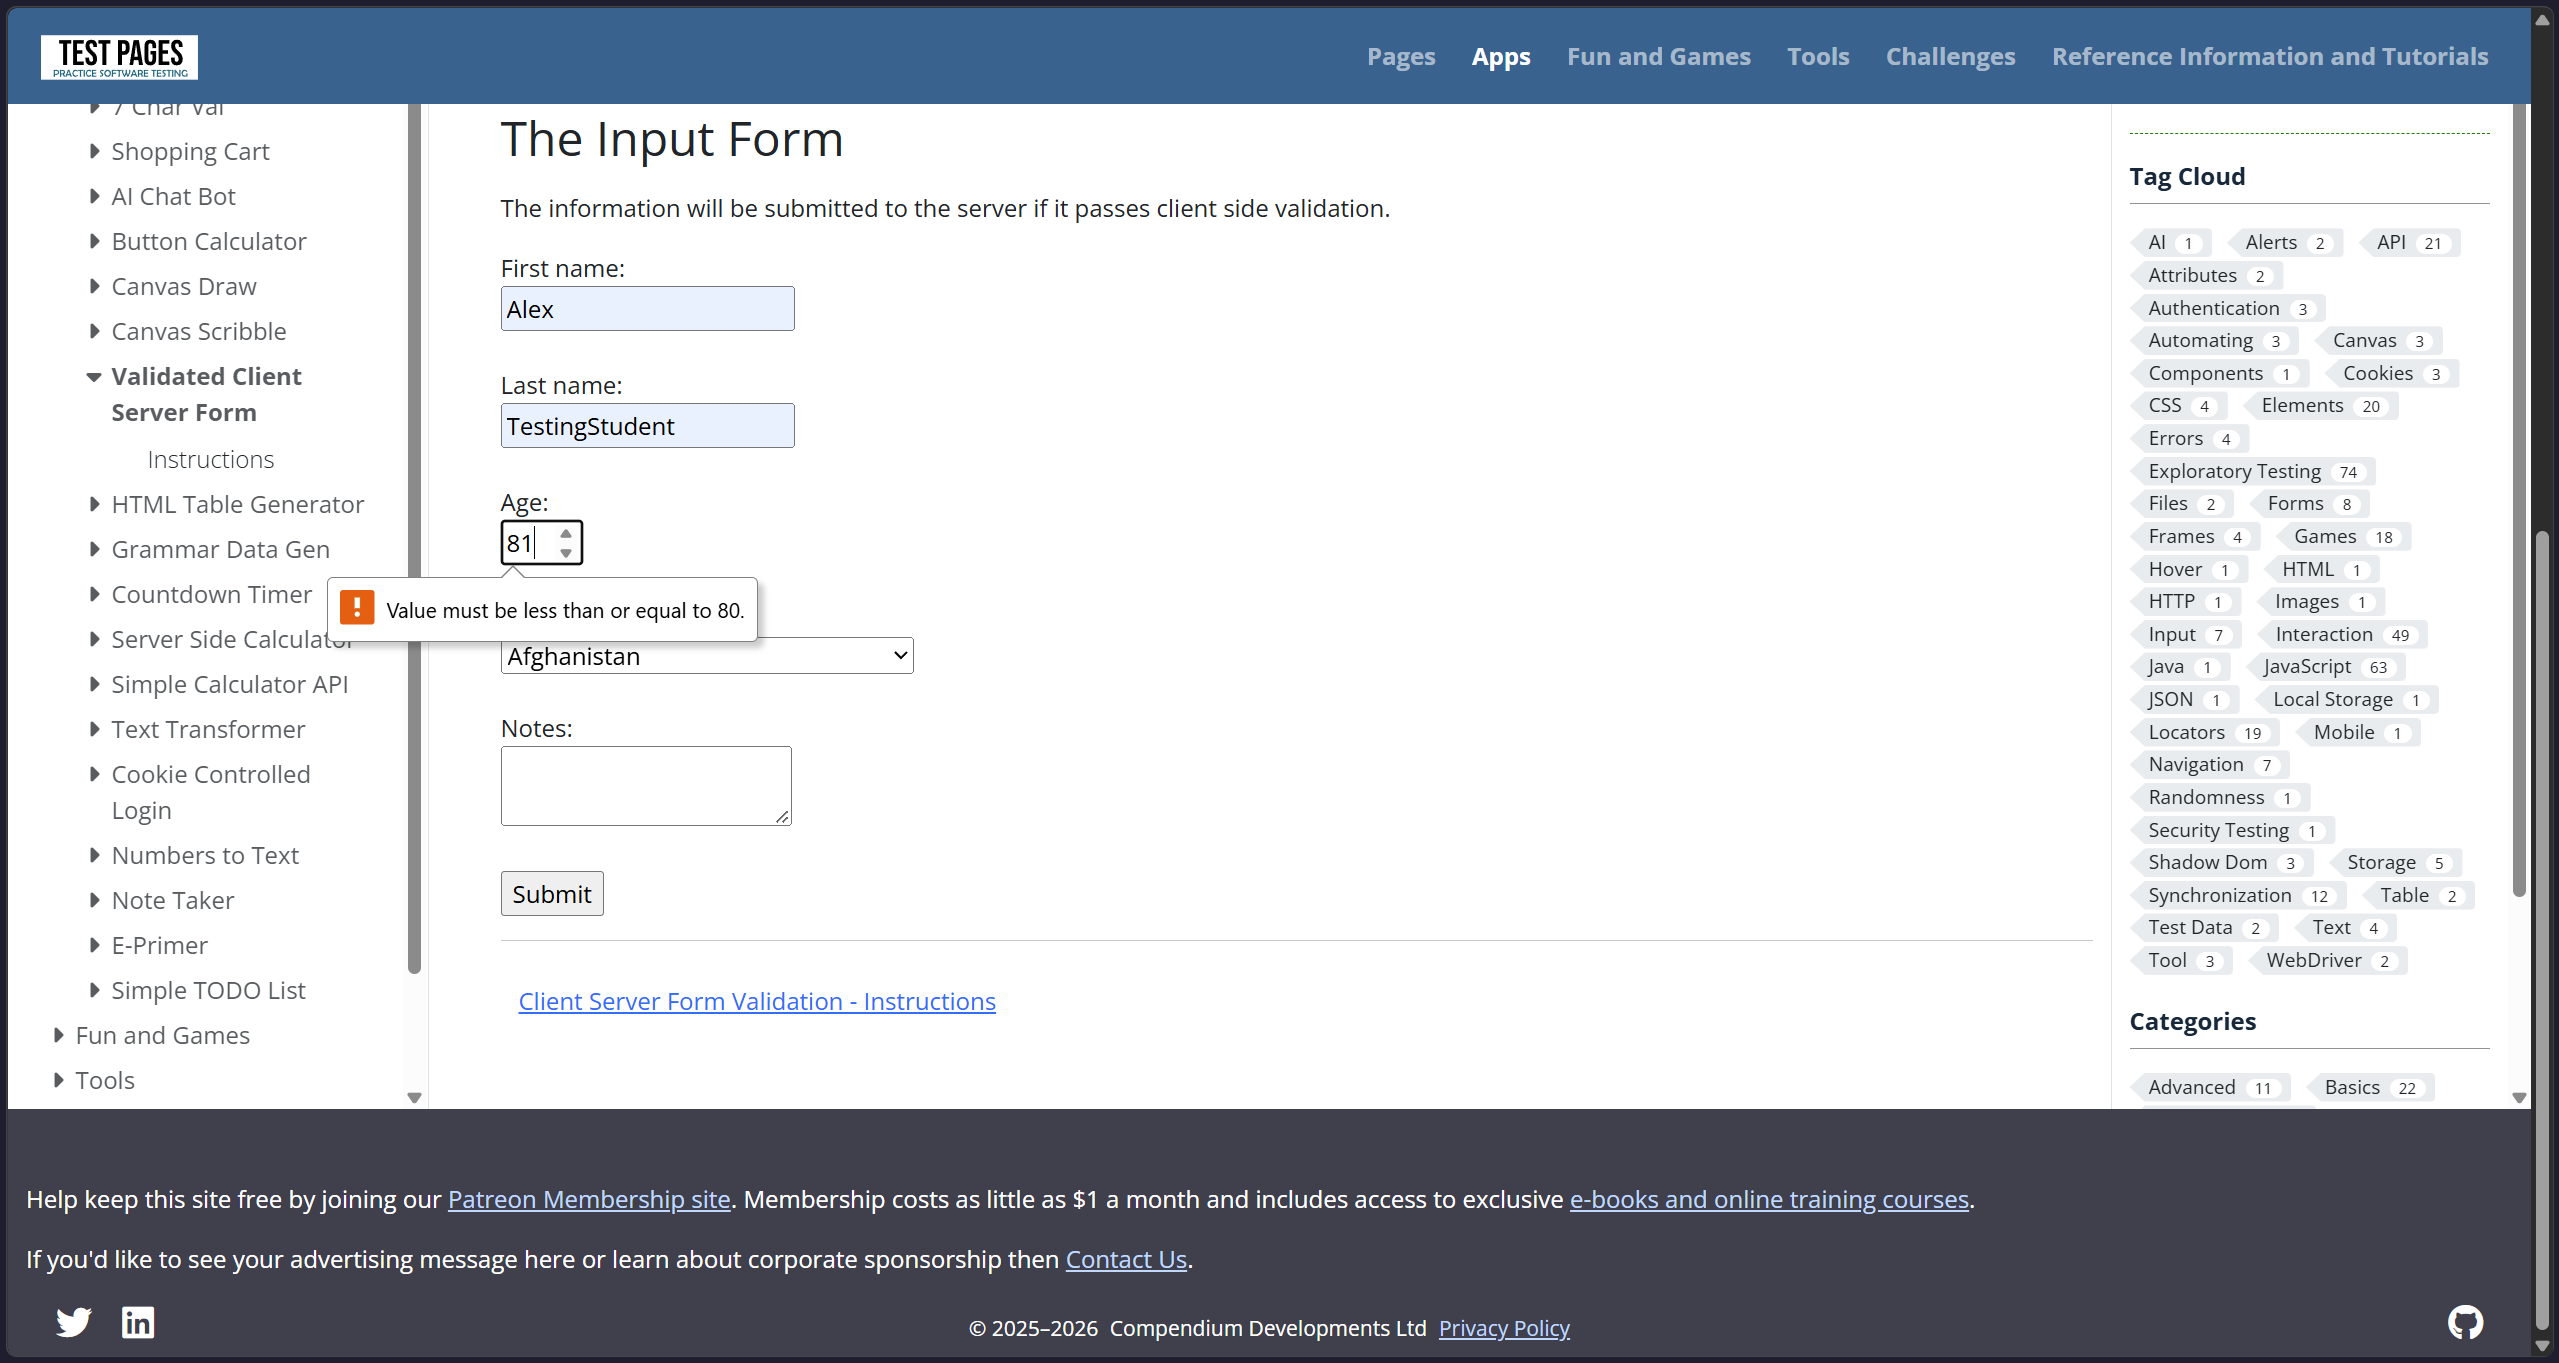
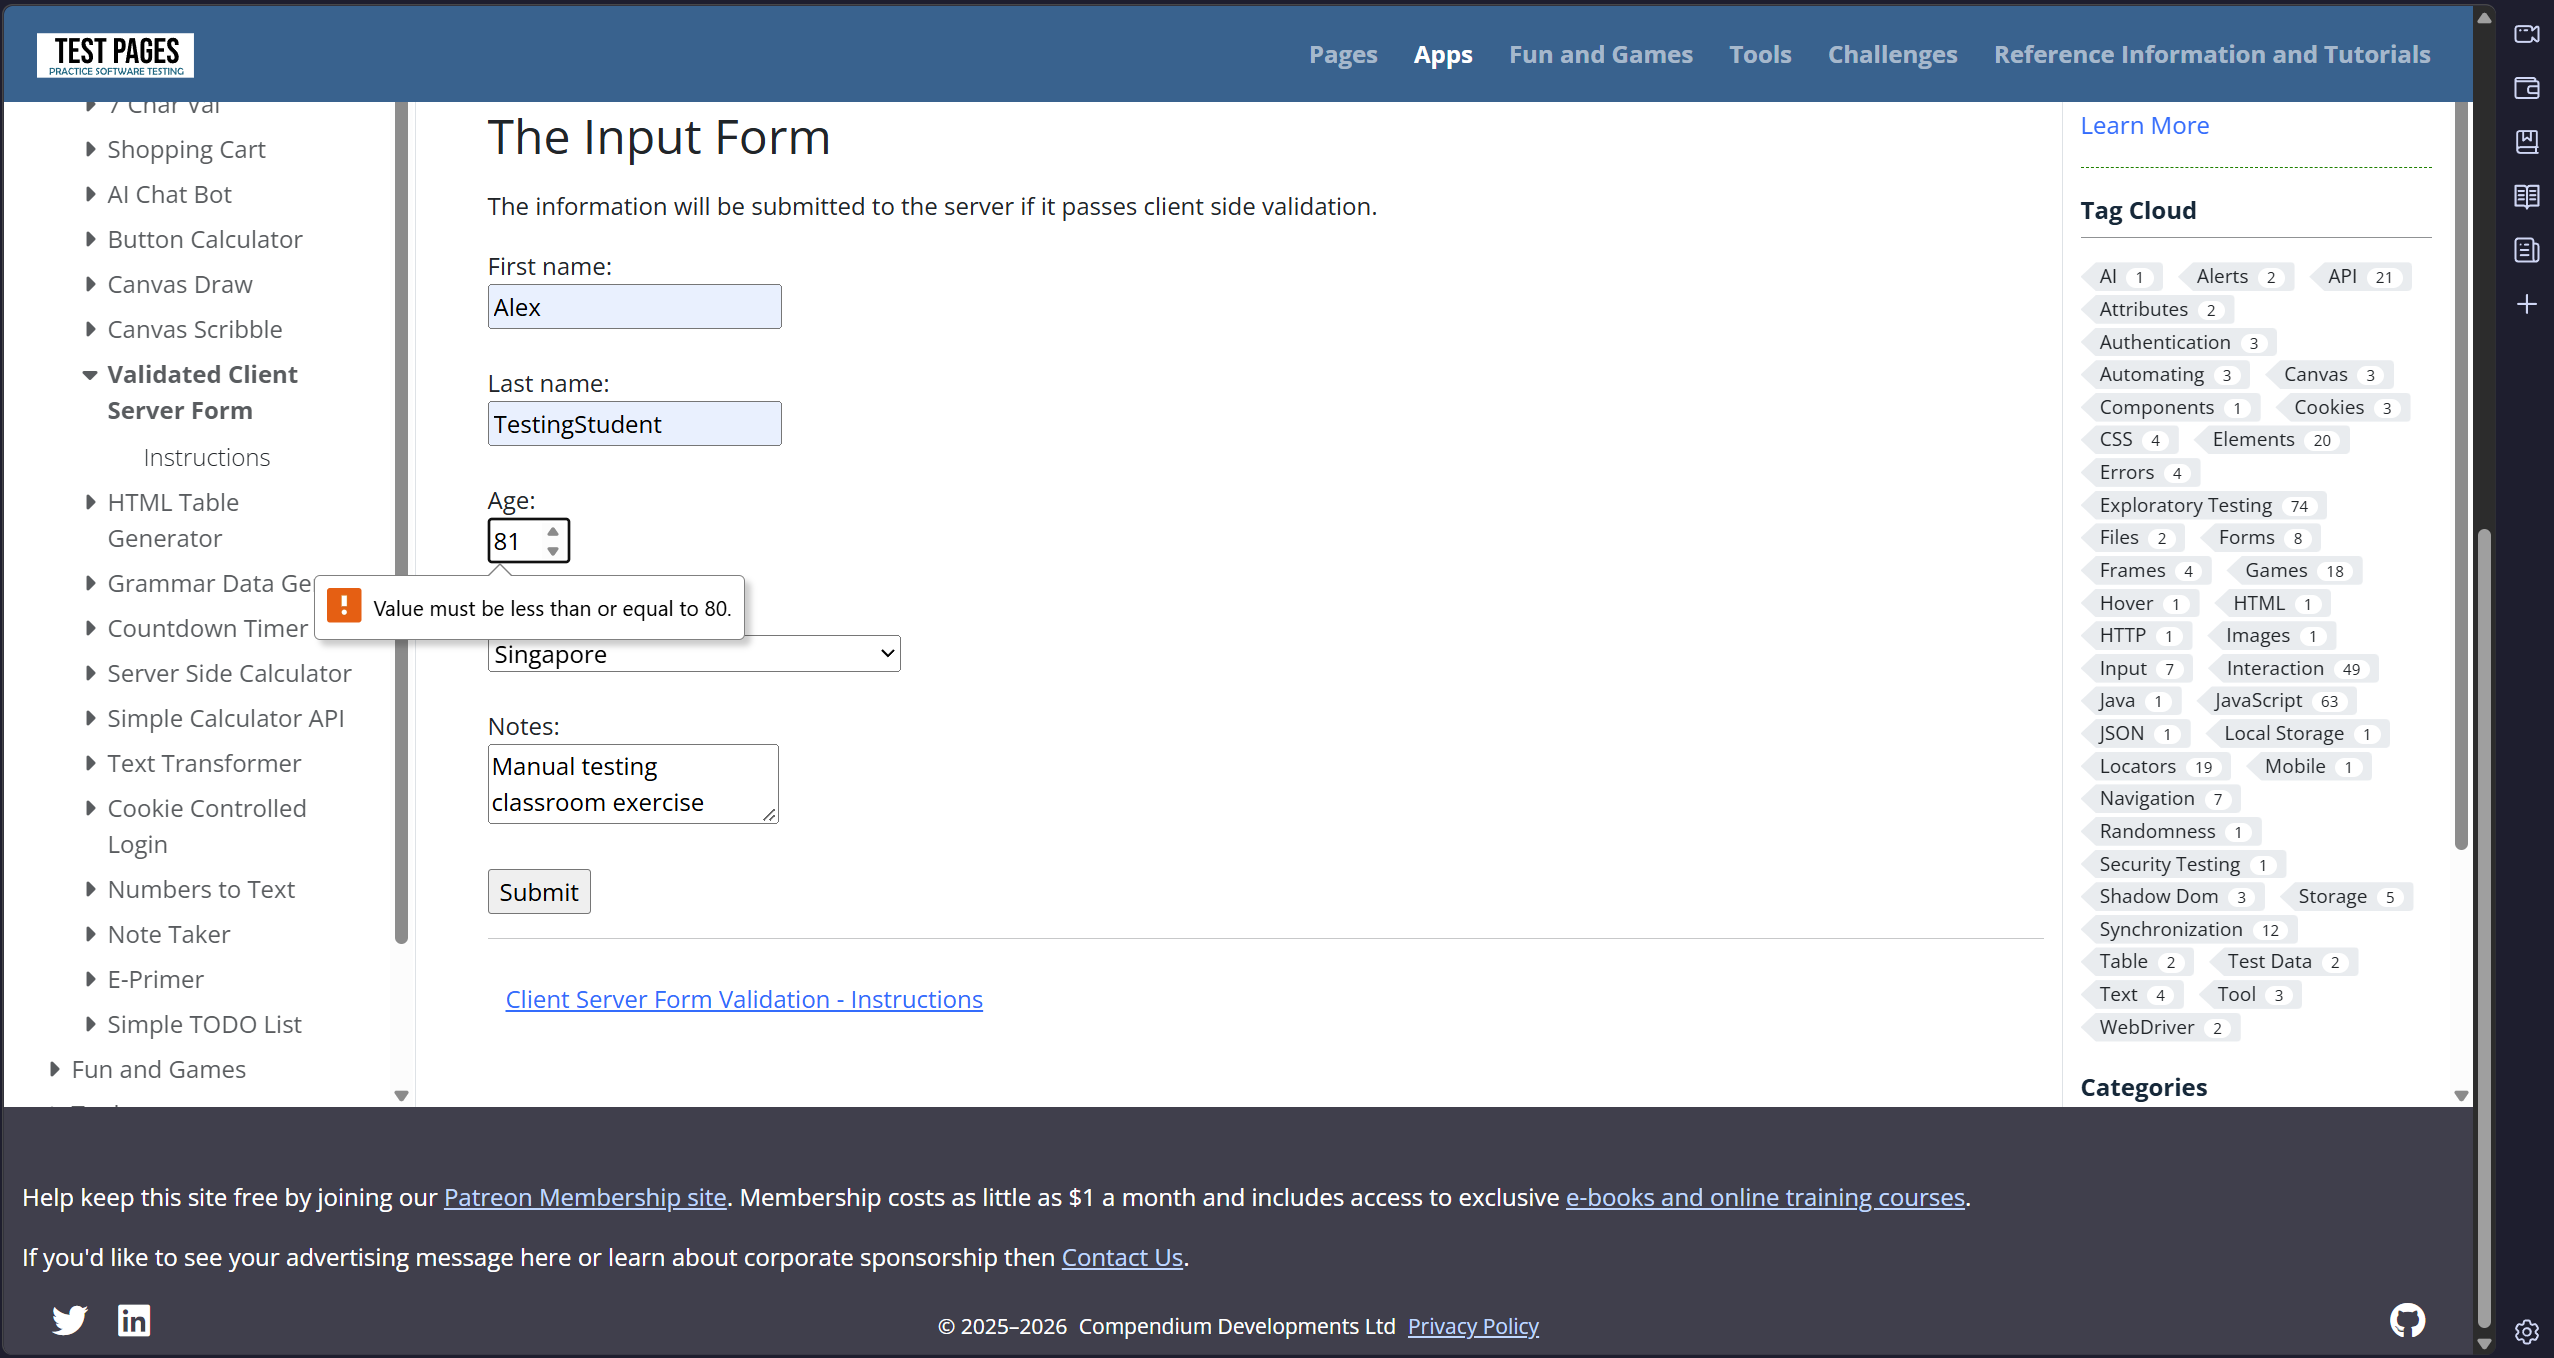
Record assigned 3-point boundary tests

diff --git a/manual-testing/results/member-e.md b/manual-testing/results/member-e.md
@@ -18,7 +18,7 @@
 | Test type | Recovery |
 | Tester | Member-E |
 | Website | https://www.saucedemo.com/ |
-| Status | Run |
+| Status | Pass |
 
 #### Purpose
 
@@ -32,14 +32,16 @@ User has an account registered in the website.
 
 | Field | Value |
 |---|---|
-| Input name | standard_user |
+| Username | standard_user |
+| Password | wrong_password |
+| Corrected Password | secret_sauce |
 
 #### Steps
 
-1.Enter standard_user and wrong_password.
+1.Enter `standard_user` and `wrong_password`.
 2.Select Login.
 3.Confirm rejection.
-4.Replace the password with secret_sauce.
+4.Replace the password with `secret_sauce`.
 5.Keep the username unchanged.
 6.Select Login again.
 7.Check whether the inventory appears.
@@ -67,7 +69,7 @@ On the second attempt, able to login after correcting the password and able to v
 | Test type | Negative |
 | Tester | Member-E |
 | Website | https://testpages.eviltester.com/apps/client-server-form-validation/ |
-| Status | Run |
+| Status | Pass |
 
 #### Purpose
 
@@ -81,13 +83,17 @@ None.
 
 | Field | Value |
 |---|---|
-| Input name | standard_user |
+| First name | Alex |
+| Surname | TestingStudent |
+| Age | abc |
+| Country | Singapore |
+| Notes | Manual testing classroom exercise |
 
 #### Steps
 
 1. Restore the validation form.
-2. Enter the agreed baseline.
-3. Enter abc in age.
+2. Enter the baseline.
+3. Enter `abc` in age field.
 4. Submit.
 5. Observe the response.
 
@@ -115,11 +121,11 @@ Input is prevented when entering the age.
 | Tester | member-e |
 | Website | Test Pages validation form |
 | Technique | 2-point boundary testing |
-| Status | Not run |
+| Status | Pass |
 
 #### Purpose
 
-Check that an age immediately below the minimum is rejected.
+Check whether the age that are either above or below the boundary values is rejected.
 
 #### Preconditions
 
@@ -130,18 +136,21 @@ All other fields will use the agreed valid baseline.
 
 | Field | Value |
 |---|---|
+| First name | Alex |
+| Surname | TestingStudent |
 | Age | `18` & `81` |
-| Other fields | Agreed valid baseline |
+| Country | Singapore |
+| Notes | Manual testing classroom exercise |
 
 #### Steps
 
 1. Restore the validation form.
-2. Enter the agreed baseline.
+2. Enter the baseline.
 3. Replace age with `18`.
 4. Submit.
 5. Observe the response.
 6. Restore the validation form.
-7. Enter the agreed baseline.
+7. Enter the baseline.
 8. Replace age with `81`.
 9. Submit.
 10. Observe the response again.
@@ -162,3 +171,58 @@ Age 18 is accepted whereas for Age 81, an invalid prompt appears.
 
 ## 3-Point Boundary Tests
 
+### Test ID: AGE-3P-18-81-E
+
+| Item | Details |
+|---|---|
+| Test type | Negative |
+| Tester | member-e |
+| Website | Test Pages validation form |
+| Technique | 3-point boundary testing |
+| Status | Not Run |
+
+#### Purpose
+
+Check whether the age that are either above or below the boundary values is rejected.
+
+#### Preconditions
+
+The validation form is open.
+All other fields will use the agreed valid baseline.
+
+#### Test Data
+
+| Field | Value |
+|---|---|
+| First name | Alex |
+| Surname | TestingStudent |
+| Age | `16` & `79` |
+| Country | Singapore |
+| Notes | Manual testing classroom exercise |
+
+#### Steps
+
+1. Restore the validation form.
+2. Enter the baseline.
+3. Replace age with `16`.
+4. Submit.
+5. Observe the response.
+6. Restore the validation form.
+7. Enter the baseline.
+8. Replace age with `79`.
+9. Submit.
+10. Observe the response again.
+
+#### Expected Result
+
+Age 16 is rejected because it is below the minimum age of 80 whereas Age 79 is accepted.
+
+#### Actual Result
+
+Age 79 is accepted whereas for Age 16, an invalid prompt appears. 
+
+#### Evidence
+
+[View screenshot](../evidence/member-e/age-3p-16-e.png)
+[View screenshot](../evidence/member-e/age-3p-79-e.png)
+---
